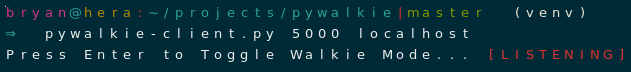
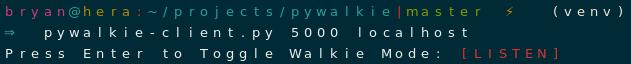
Ref: change variable-names

diff --git a/pywalkie-client.py b/pywalkie-client.py
@@ -92,9 +92,8 @@ def monitor_input():
     def print_status(status, color):
         p.active_walkie = status
 
-        instructions = 'Press Enter to Toggle Walkie Mode...'
-        state = 'RECORDING' if status == p.CLIENT else 'LISTENING'
-        input(instructions + color(' [' + state + '] '))
+        state = 'TALK' if status == p.CLIENT else 'LISTEN'
+        input('Press Enter to Toggle Walkie Mode:' + color(' [' + state + '] '))
         sys.stdout.flush()
         if not p.DEBUGGING:
             CURSOR_UP_ONE = '\x1b[1A'
